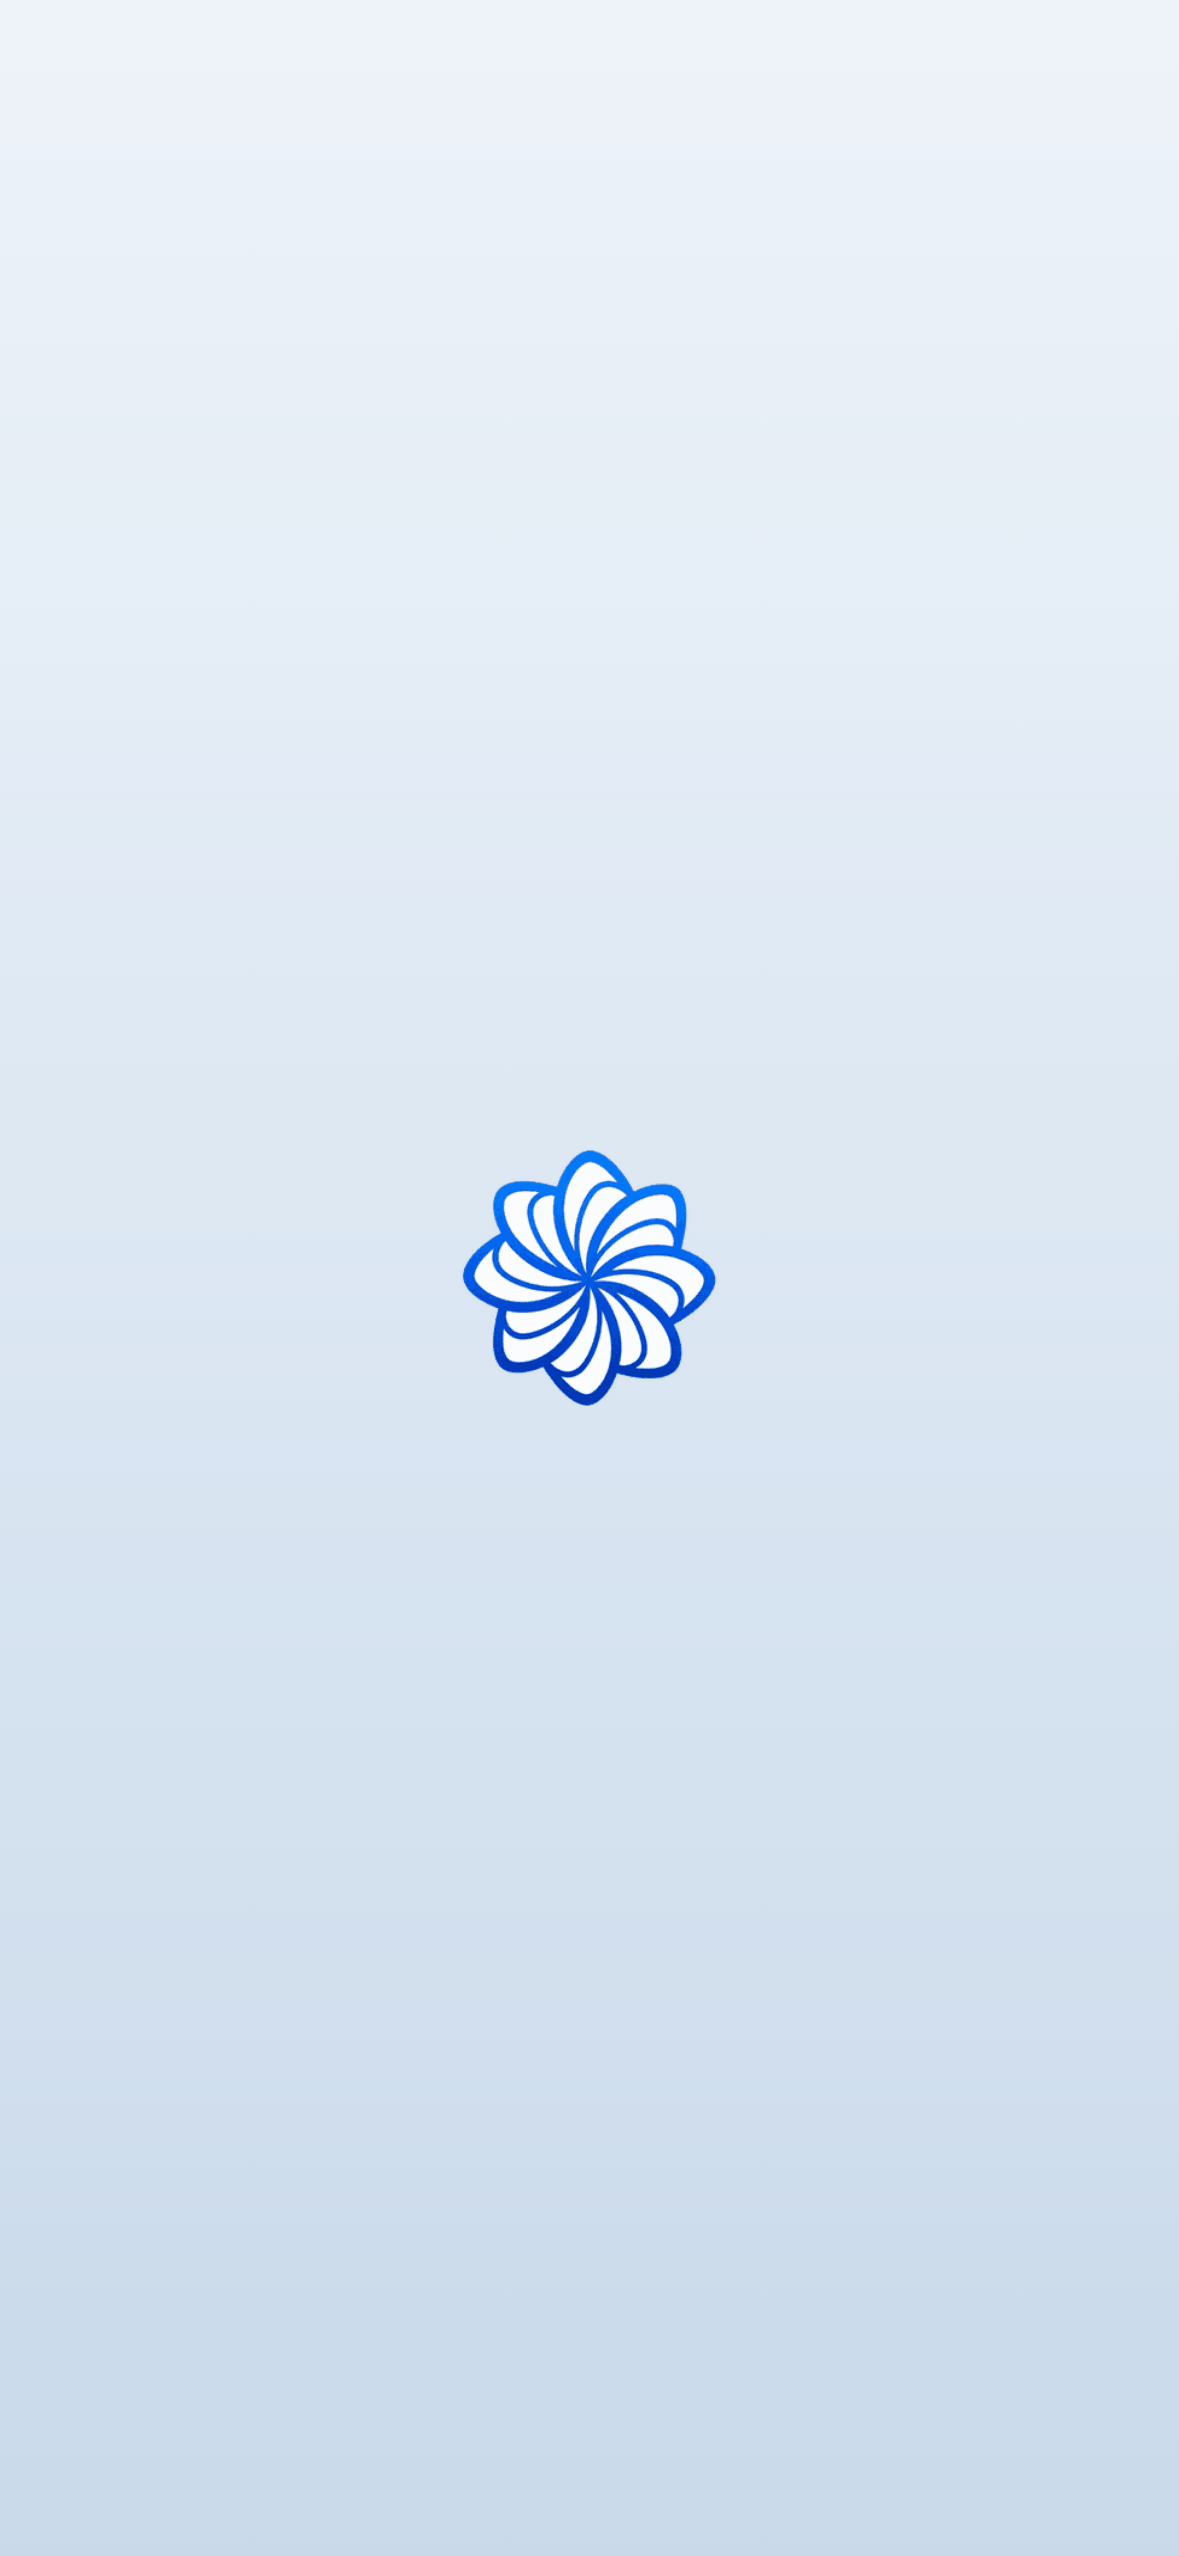
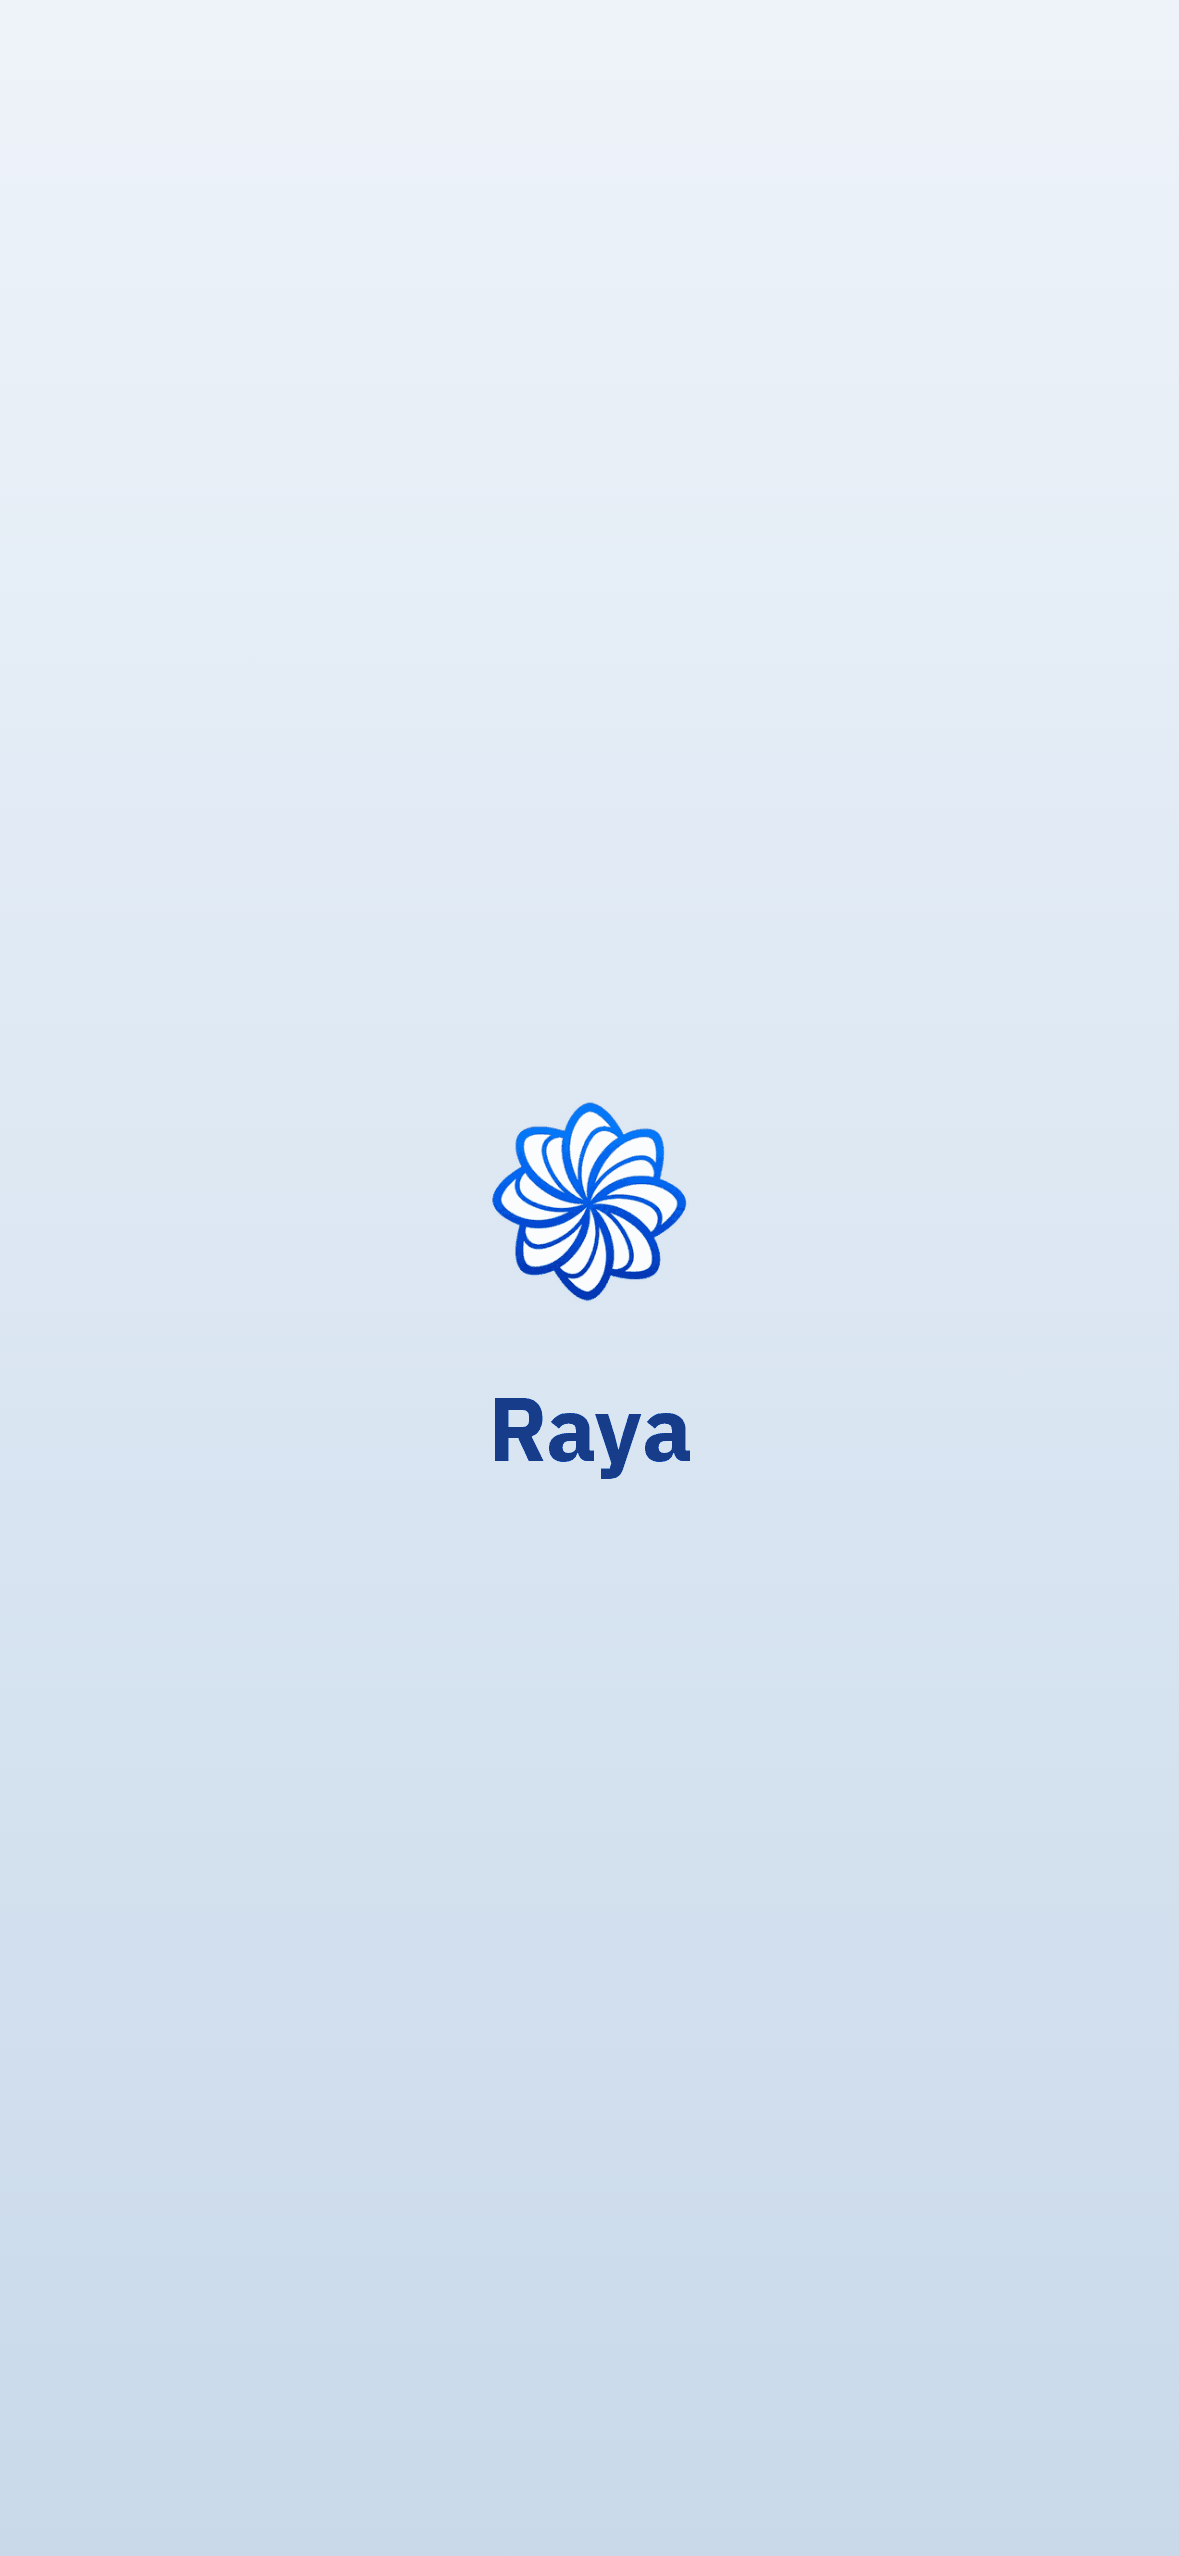
pwa: set Raya's launch screen in the display face
The word was missing from that screen because the tutor's name is set in a bold
serif (Cambria Math, falling back to Times New Roman) and this container has no
copy of it — baking it would have shipped whatever font the build machine
happened to fall back to rather than what a phone shows. Setting it in IBM Plex
Sans removes that problem: the face is already loaded on the page the renderer
reads, so the name can be baked at all.

Same size, weight and tracking as "BlueStift" beside it, so the two apps read as
siblings on a home screen rather than as unrelated products. The colouring is
the only difference: Bluestift stays split across the two brand blues the way
the navbar writes it, Raya stays in the darker one alone.

Worth flagging rather than burying: this departs from the brand rule in
components/ui/brand.tsx, which chooses the serif because it reads warmer and
less clinical than a sans for a student audience. That rule still governs every
<RayaName/> in the product; this one baked image is a deliberate exception, and
the note now sits next to the code that makes it.

The word markup moved into the per-app config, which also collapsed the branch
that used to render it. Verified the refactor changed nothing else: the eleven
Bluestift screens come back byte-identical, and only the Raya set differs.

sw.js to v5 — those files keep their names but not their bytes, and the worker
caches /public images cache-first with no revalidation.
[…]

Changed region(s): [[0.3969, 0.4327, 0.6107, 0.5872]]

diff --git a/public/sw.js b/public/sw.js
@@ -26,7 +26,7 @@
 // marks did) would otherwise be served from the old cache forever. Bumping the
 // version renames the cache, and `activate` deletes every cache but the current
 // one — that is the only cache-bust this worker has.
-const VERSION = "v4";
+const VERSION = "v5";
 const STATIC_CACHE = `bluestift-static-${VERSION}`;
 const OFFLINE_URL = "/offline.html";
 /**
